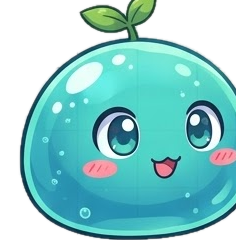
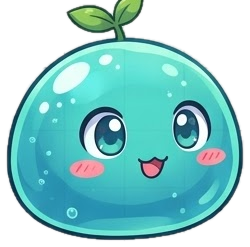
Crop whole figure for slime portraits, keep happy slime's leaf
Claude-Session: https://claude.ai/code/session_01JQnybBdTfyFtTRLkNzdc7b

diff --git a/tools/cut_portraits.py b/tools/cut_portraits.py
@@ -37,7 +37,7 @@ SHEET_CONFIG = {
     "archmage": dict(panels=GRID_2X2_LABEL_BOTTOM, tolerance=28, box=(70, 10, 384, 360)),
     "swordsman": dict(panels=GRID_2X2_LABEL_TOP, bust=0.42),
     "knight": dict(panels=GRID_2X2_LABEL_TOP, bust=0.45),
-    "slime": dict(panels=[("idle", 0, 120, 384, 400), ("happy", 384, 120, 768, 420),
+    "slime": dict(panels=[("idle", 0, 120, 384, 400), ("happy", 384, 100, 768, 420),
                           ("angry", 0, 510, 384, 840), ("hurt", 384, 590, 768, 840),
                           ("surprised", 0, 950, 384, 1340), ("sleep", 384, 1100, 768, 1340)],
                   bust=1.0, gray_background=True),
@@ -80,6 +80,10 @@ def _keep_largest(rgb: Image.Image, background: np.ndarray) -> Image.Image:
 def bust_crop(image: Image.Image, bust: float, center: float | None = None) -> Image.Image:
     alpha = np.array(image.getchannel("A")) > 20
     ys, xs = np.nonzero(alpha)
+    if bust >= 1.0:
+        # Фигура целиком (слизни): кадр по всей фигуре, без центрирования по голове.
+        return image.crop((max(0, xs.min() - 6), max(0, ys.min() - 6),
+                           min(image.width, xs.max() + 7), min(image.height, ys.max() + 7)))
     top, bottom = ys.min(), ys.max()
     height = int((bottom - top) * bust)
     # Центр по голове: средний x непрозрачных пикселей в верхних 12% фигуры.
